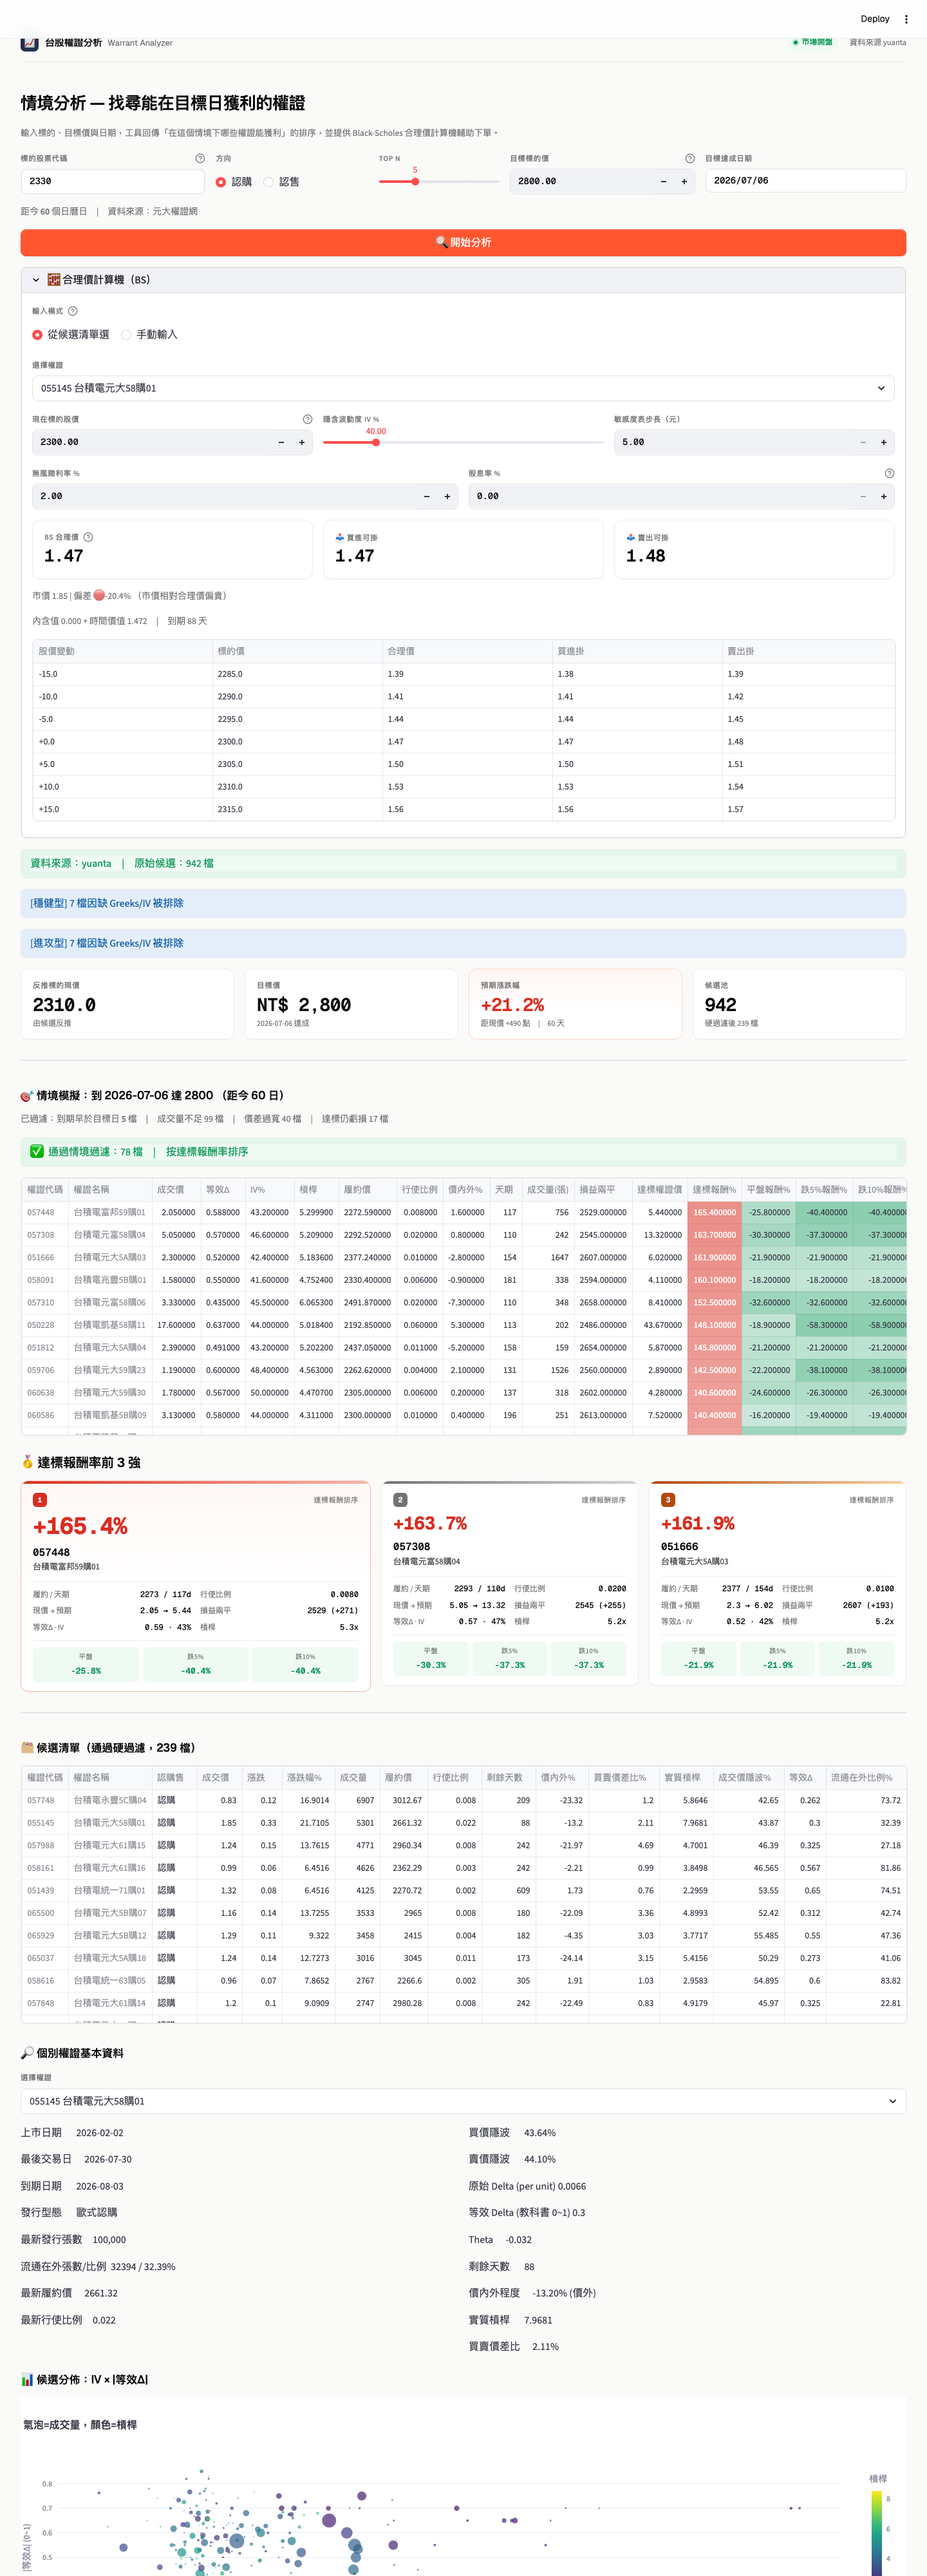
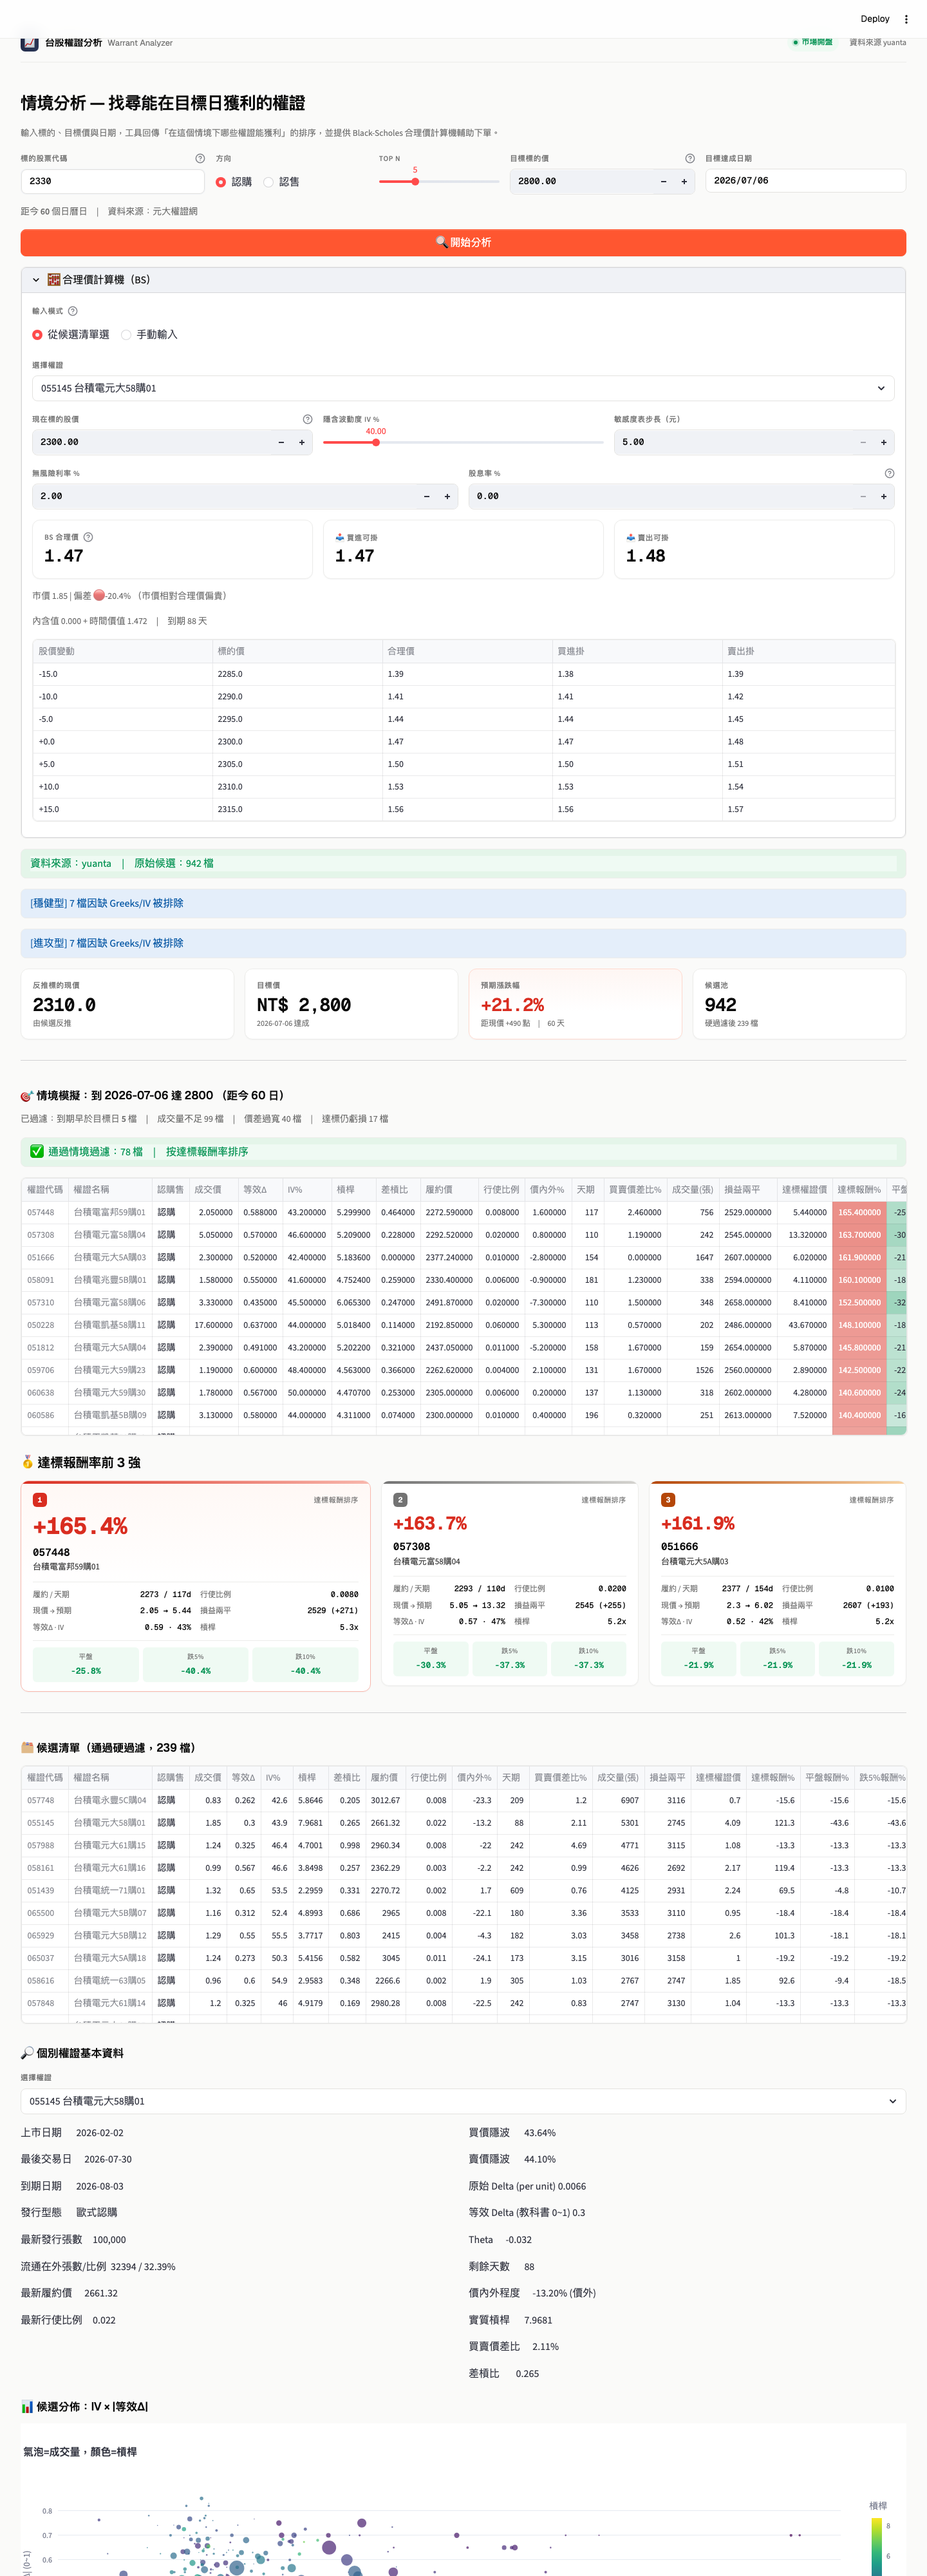
feat: 候選清單同情境表欄位、新增差槓比、IV 自動帶入、表格可選排序
四個改動：

1. 新增 Warrant.spread_to_leverage 屬性（差槓比 = 買賣價差比 / 實質槓桿）
   - 越低越好：用 1x 槓桿換來的價差成本越小
   - 對應 Yuanta API: FLD_BUY_SELL_RATE / FLD_LEVERAGE
   - 加進 SCENARIO_COLUMN_CONFIG tooltip + 個別權證資料 panel

2. 候選清單表格欄位改成同情境表（17+ 欄）
   - 對所有 candidates 跑 evaluate_scenarios（不過濾），讓欄位完全相同
   - 含損益兩平 / 達標權證價 / 達標報酬% / 平盤/跌5/跌10 報酬%
   - 套同樣的 heatmap + tooltip
   - 用共用的 _scen_row(r) 取代 warrant_to_row(w)

3. 合理價計算機 IV 自動帶入
   - 切換權證或模式時，自動 reset slider/input 的 session_state
   - fingerprint = (mode, symbol, strike, default_iv, default_spot)
   - fingerprint 變動才 reset，其他 rerun（如改目標價）不影響使用者調過的 slider

4. 情境表新增「排序方式」selectbox
   - 達標報酬% / 等效Δ / 差槓比 / 履約價 / 天期 / 成交量 / IV% / 槓桿
   - Top 3 podium 仍按 達標報酬% 排序（不受 selector 影響）
   - 點欄位 header 也能排序（Streamlit 內建）

測試：61/61 passed

diff --git a/src/streamlit_app.py b/src/streamlit_app.py
@@ -431,24 +431,30 @@ run = st.button("🔍 開始分析", type="primary", use_container_width=True)
 
 
 # --- helpers ---
-def warrant_to_row(w: Warrant) -> dict:
+def _scen_row(r) -> dict:
+    """情境表/候選表共用的 row builder（同樣欄位、含差槓比）."""
+    w = r.warrant
     return {
         "權證代碼": w.symbol,
         "權證名稱": w.name,
         "認購售": "認購" if w.direction == "call" else "認售",
         "成交價": w.last_price,
-        "漲跌": w.change,
-        "漲跌幅%": w.change_pct,
-        "成交量": w.volume,
-        "履約價": w.strike,
-        "行使比例": w.exercise_ratio,
-        "剩餘天數": w.days_to_expiry,
-        "價內外%": w.moneyness_pct,
-        "買賣價差比%": w.bid_ask_spread_pct,
-        "實質槓桿": w.leverage,
-        "成交價隱波%": w.iv_mid,
         "等效Δ": round(w.equivalent_delta, 3) if w.equivalent_delta is not None else None,
-        "流通在外比例%": w.outstanding_pct,
+        "IV%": round(w.iv_mid or 0, 1),
+        "槓桿": w.leverage,
+        "差槓比": round(w.spread_to_leverage, 3) if w.spread_to_leverage is not None else None,
+        "履約價": w.strike,
+        "行使比例": round(w.exercise_ratio, 4) if w.exercise_ratio is not None else None,
+        "價內外%": round(w.moneyness_pct, 1) if w.moneyness_pct is not None else None,
+        "天期": w.days_to_expiry,
+        "買賣價差比%": round(w.bid_ask_spread_pct or 0, 2) if w.bid_ask_spread_pct is not None else None,
+        "成交量(張)": w.volume,
+        "損益兩平": round(r.breakeven or 0, 0) if r.breakeven else None,
+        "達標權證價": round(r.expected_warrant_price or 0, 2) if r.expected_warrant_price else None,
+        "達標報酬%": round(r.expected_return_pct or 0, 1) if r.expected_return_pct is not None else None,
+        "平盤報酬%": round(r.risk_returns.get(0.0, 0) or 0, 1),
+        "跌5%報酬%": round(r.risk_returns.get(-5.0, 0) or 0, 1),
+        "跌10%報酬%": round(r.risk_returns.get(-10.0, 0) or 0, 1),
     }
 
 
@@ -474,6 +480,7 @@ def render_basic_info(w: Warrant) -> None:
         "價內外程度": f"{w.moneyness_pct:.2f}% ({'價內' if (w.moneyness_pct or 0)>0 else '價外'})" if w.moneyness_pct is not None else "-",
         "實質槓桿": w.leverage,
         "買賣價差比": f"{w.bid_ask_spread_pct:.2f}%" if w.bid_ask_spread_pct else "-",
+        "差槓比": f"{w.spread_to_leverage:.3f}" if w.spread_to_leverage is not None else "-",
     }
     with cols[0]:
         for k, v in left.items():
@@ -592,6 +599,16 @@ def _render_calculator(candidates: list[Warrant]) -> None:
         )
         default_spot = mstrike
         default_days = mdays
+
+    # ── 切換權證 / 模式時，重設下面 widgets 的 session_state ──
+    # 否則 slider/input 會卡在前一檔的 IV 或 spot
+    spot_tick_calc = tick_size(default_spot)
+    fingerprint = (mode, sel_w.symbol, sel_w.strike, round(default_iv, 2), round(default_spot, 2))
+    if st.session_state.get("calc_fingerprint") != fingerprint:
+        st.session_state["calc_spot"] = float(round_to_tick(default_spot, "nearest"))
+        st.session_state["calc_iv"] = float(default_iv)
+        st.session_state["calc_step"] = float(spot_tick_calc)
+        st.session_state["calc_fingerprint"] = fingerprint
 
     # ── 共用計算區（spot / IV / 利率 / 股息） ──
     spot_tick = tick_size(default_spot)
@@ -775,12 +792,15 @@ PINNED_COLUMNS = {
 }
 SCENARIO_COLUMN_CONFIG = {
     **PINNED_COLUMNS,
+    "認購售": st.column_config.TextColumn("認購售"),
     "等效Δ": st.column_config.NumberColumn("等效Δ", help="教科書 0~1 Delta（已除以行使比例）；認購正、認售負"),
     "IV%": st.column_config.NumberColumn("IV%", help="隱含波動度（買價/賣價隱波取中位）；越高代表權證越貴"),
-    "槓桿": st.column_config.NumberColumn("槓桿", help="實質槓桿"),
+    "槓桿": st.column_config.NumberColumn("槓桿", help="實質槓桿（FLD_LEVERAGE）"),
+    "差槓比": st.column_config.NumberColumn("差槓比", help="買賣價差比% / 實質槓桿（越低越好；用 1x 槓桿換來的價差成本）"),
     "履約價": st.column_config.NumberColumn("履約價", help="權證的履約價"),
     "價內外%": st.column_config.NumberColumn("價內外%", help="目前價內(+) 或價外(-) 的百分比"),
     "天期": st.column_config.NumberColumn("天期", help="權證剩餘日曆天數"),
+    "買賣價差比%": st.column_config.NumberColumn("買賣價差比%", help="(賣價-買價)/中價 ×100%，FLD_BUY_SELL_RATE"),
     "損益兩平": st.column_config.NumberColumn("損益兩平", help="標的需漲(call)/跌(put)到此價才回本"),
     "達標權證價": st.column_config.NumberColumn("達標權證價", help="若達目標日標的到目標價，預期權證的價格"),
     "達標報酬%": st.column_config.NumberColumn("達標報酬%", help="達標時相對現價的報酬"),
@@ -827,31 +847,29 @@ if result.candidates and spot_now is not None:
     if not scen_results:
         st.warning("沒有權證在這個情境下能獲利（過濾後無候選）。試著放寬目標、延長日期。")
     else:
-        st.success(f"✅ 通過情境過濾：{len(scen_results)} 檔　|　按達標報酬率排序")
+        SORT_KEYS = {
+            "達標報酬% (高→低)": (lambda r: r.expected_return_pct or -1e9, True),
+            "等效Δ |絕對值| (高→低)": (lambda r: abs(r.warrant.equivalent_delta or 0), True),
+            "差槓比 (低→高)": (lambda r: r.warrant.spread_to_leverage or 1e9, False),
+            "履約價 (低→高)": (lambda r: r.warrant.strike or 1e9, False),
+            "履約價 (高→低)": (lambda r: r.warrant.strike or 0, True),
+            "天期 (短→長)": (lambda r: r.warrant.days_to_expiry or 1e9, False),
+            "天期 (長→短)": (lambda r: r.warrant.days_to_expiry or 0, True),
+            "成交量 (高→低)": (lambda r: r.warrant.volume or 0, True),
+            "IV% (低→高)": (lambda r: r.warrant.iv_mid or 1e9, False),
+            "槓桿 (高→低)": (lambda r: r.warrant.leverage or 0, True),
+        }
+        sort_choice = st.selectbox(
+            "排序方式",
+            list(SORT_KEYS.keys()),
+            index=0, key="scen_sort",
+            help="也可以直接點表格欄位 header 排序",
+        )
+        key_fn, reverse = SORT_KEYS[sort_choice]
+        scen_sorted = sorted(scen_results, key=key_fn, reverse=reverse)
+        st.success(f"✅ 通過情境過濾：{len(scen_results)} 檔　|　依「{sort_choice}」排序")
 
-        scen_rows = []
-        for r in scen_results[:20]:
-            w = r.warrant
-            scen_rows.append({
-                "權證代碼": w.symbol,
-                "權證名稱": w.name,
-                "成交價": w.last_price,
-                "等效Δ": round(w.equivalent_delta, 3) if w.equivalent_delta is not None else None,
-                "IV%": round(w.iv_mid or 0, 1),
-                "槓桿": w.leverage,
-                "履約價": w.strike,
-                "行使比例": round(w.exercise_ratio, 4) if w.exercise_ratio is not None else None,
-                "價內外%": round(w.moneyness_pct, 1) if w.moneyness_pct is not None else None,
-                "天期": w.days_to_expiry,
-                "成交量(張)": w.volume,
-                "損益兩平": round(r.breakeven or 0, 0),
-                "達標權證價": round(r.expected_warrant_price or 0, 2),
-                "達標報酬%": round(r.expected_return_pct or 0, 1),
-                "平盤報酬%": round(r.risk_returns.get(0.0, 0) or 0, 1),
-                "跌5%報酬%": round(r.risk_returns.get(-5.0, 0) or 0, 1),
-                "跌10%報酬%": round(r.risk_returns.get(-10.0, 0) or 0, 1),
-            })
-        scen_df = pd.DataFrame(scen_rows)
+        scen_df = pd.DataFrame([_scen_row(r) for r in scen_sorted[:20]])
 
         def _hm_red(val):
             """正報酬紅漸層（達標報酬%）— 越高越紅."""
@@ -939,16 +957,34 @@ elif spot_now is None:
     st.warning("無法反推標的現價（缺履約價/價內外）。")
 
 
-# --- 候選清單 ---
+# --- 候選清單（同情境表欄位，但不做情境過濾）---
 st.divider()
 st.subheader(f"🗂 候選清單（通過硬過濾，{len(result.candidates)} 檔）")
-if result.candidates:
-    df = pd.DataFrame([warrant_to_row(w) for w in result.candidates])
-    if "成交量" in df.columns:
-        df = df.sort_values("成交量", ascending=False, na_position="last").reset_index(drop=True)
-    st.dataframe(df, use_container_width=True, hide_index=True, column_config=PINNED_COLUMNS)
-else:
+if result.candidates and spot_now is not None:
+    # 對所有 candidates 跑情境模擬（不過濾），讓表格欄位與情境表完全相同
+    cand_inputs = ScenarioInputs(
+        target_price=float(scenario_target),
+        days_to_target=int(scenario_days),
+        spot_now=spot_now,
+        risk_drops_pct=(0.0, -5.0, -10.0),
+    )
+    cand_batch = evaluate_scenarios(
+        result.candidates, cand_inputs,
+        require_alive_at_target=False,
+        require_profit_at_target=False,
+        min_volume=0, max_spread_pct=999.0,
+    )
+    cand_df = pd.DataFrame([_scen_row(r) for r in cand_batch.results])
+    if "成交量(張)" in cand_df.columns:
+        cand_df = cand_df.sort_values("成交量(張)", ascending=False, na_position="last").reset_index(drop=True)
+    st.dataframe(
+        cand_df, use_container_width=True, hide_index=True,
+        column_config=SCENARIO_COLUMN_CONFIG,
+    )
+elif not result.candidates:
     st.warning("無候選權證")
+else:
+    st.warning("無法反推現價，候選清單無法評估情境")
 
 
 # --- 個別權證基本資料 ---

diff --git a/src/twse_warrant/models.py b/src/twse_warrant/models.py
@@ -79,6 +79,21 @@ class Warrant:
             return None
         return self.delta / self.exercise_ratio
 
+    @property
+    def spread_to_leverage(self) -> Optional[float]:
+        """差槓比 = 買賣價差比% / 實質槓桿.
+
+        越低越好：用 1% 槓桿換來的價差成本越小。
+        例：價差 2%、槓桿 5x → 0.40，比 價差 4%、槓桿 5x → 0.80 划算。
+        """
+        if (
+            self.bid_ask_spread_pct is None
+            or self.leverage is None
+            or self.leverage == 0
+        ):
+            return None
+        return self.bid_ask_spread_pct / self.leverage
+
 
 @dataclass
 class ScoredWarrant:
